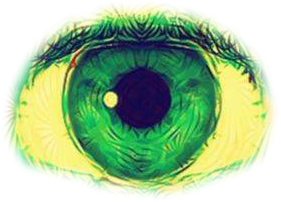
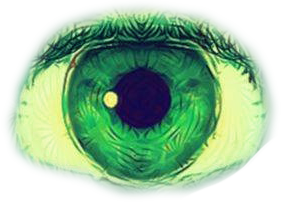
adds hover css that makes the eyes blink

diff --git a/styles.css b/styles.css
@@ -30,3 +30,6 @@ body, a:link, a:visited, a:active{
   position:absolute;
   transition: top, left .2s;
 }
+.dancer:hover {
+  background-image: url('eye_closed.png') !important;
+}
